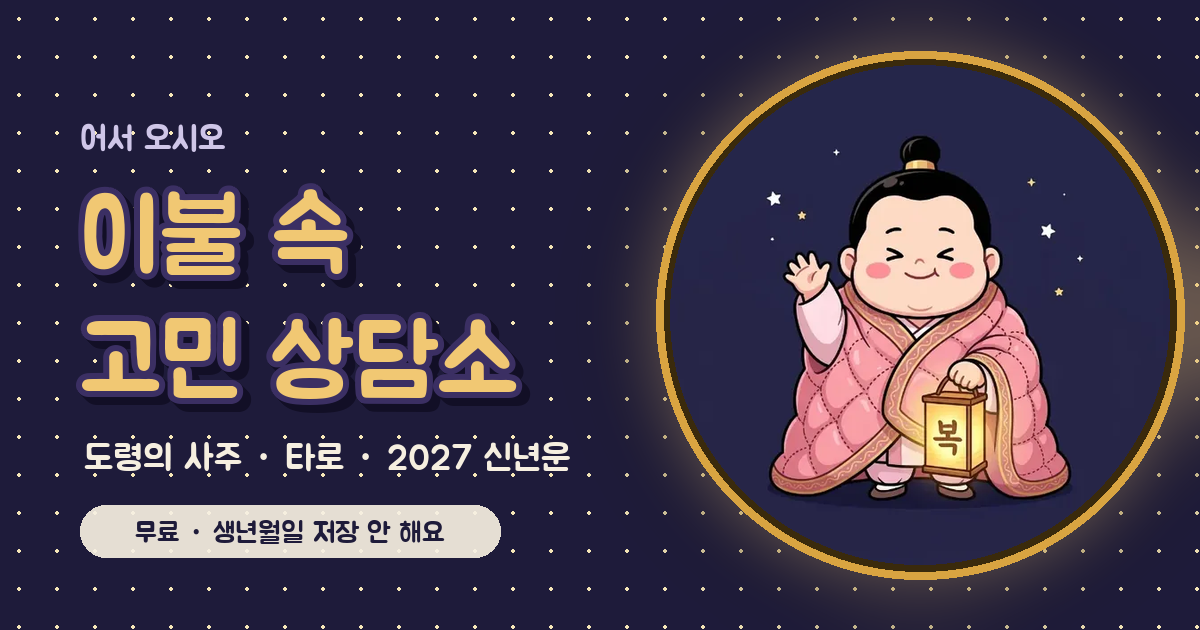
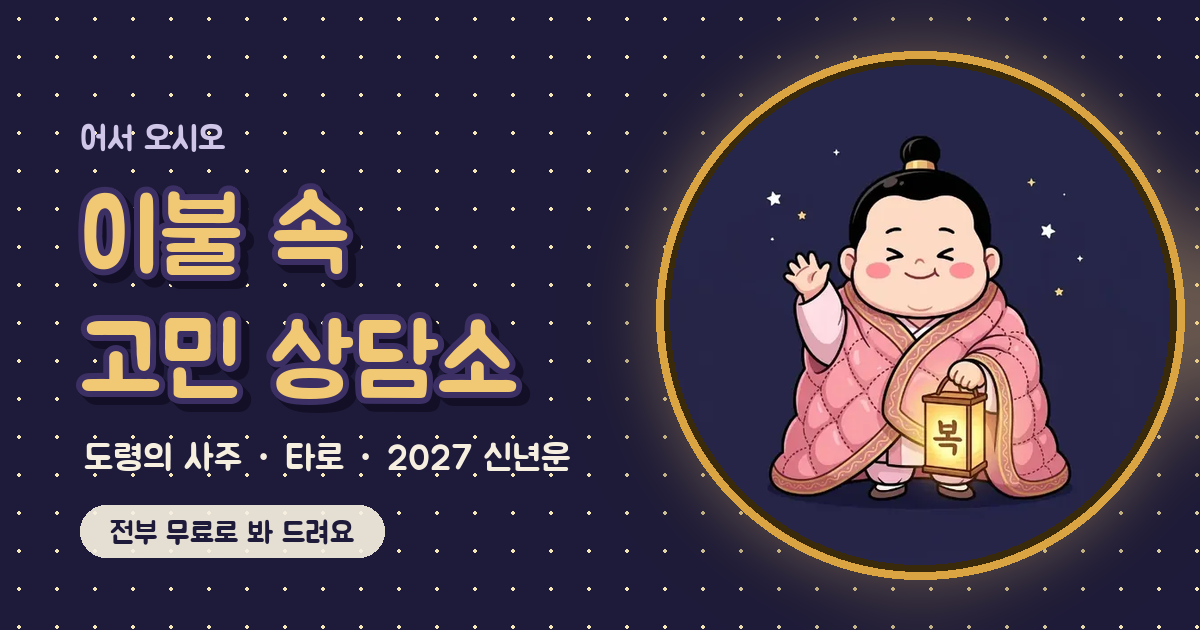
미리보기 그림·설명에서 '저장 안 해요' 문구 빼기 (사용자: 굳이 안 써도 됨) — '전부 무료로 봐 드려요'

Changed region(s): [[0.0925, 0.7841, 0.4317, 0.9048]]

diff --git a/index.html b/index.html
@@ -4,7 +4,7 @@
 <meta charset="utf-8">
 <meta name="viewport" content="width=device-width, initial-scale=1, viewport-fit=cover">
 <title>이불 속 고민 상담소</title>
-<meta name="description" content="도령이 사주와 타로로 고민을 들어 드려요. 타고난 성격, 2027년 운세, 타로 상담까지 무료. 생년월일은 어디에도 저장하지 않아요.">
+<meta name="description" content="도령이 사주와 타로로 고민을 들어 드려요. 타고난 성격, 2027년 운세, 타로 상담까지 무료.">
 <meta property="og:title" content="이불 속 고민 상담소">
 <meta property="og:description" content="도령의 사주 · 타로 상담 · 2027 신년운">
 <meta property="og:type" content="website">

diff --git a/src/app/index.template.html b/src/app/index.template.html
@@ -4,7 +4,7 @@
 <meta charset="utf-8">
 <meta name="viewport" content="width=device-width, initial-scale=1, viewport-fit=cover">
 <title>이불 속 고민 상담소</title>
-<meta name="description" content="도령이 사주와 타로로 고민을 들어 드려요. 타고난 성격, 2027년 운세, 타로 상담까지 무료. 생년월일은 어디에도 저장하지 않아요.">
+<meta name="description" content="도령이 사주와 타로로 고민을 들어 드려요. 타고난 성격, 2027년 운세, 타로 상담까지 무료.">
 <meta property="og:title" content="이불 속 고민 상담소">
 <meta property="og:description" content="도령의 사주 · 타로 상담 · 2027 신년운">
 <meta property="og:type" content="website">
